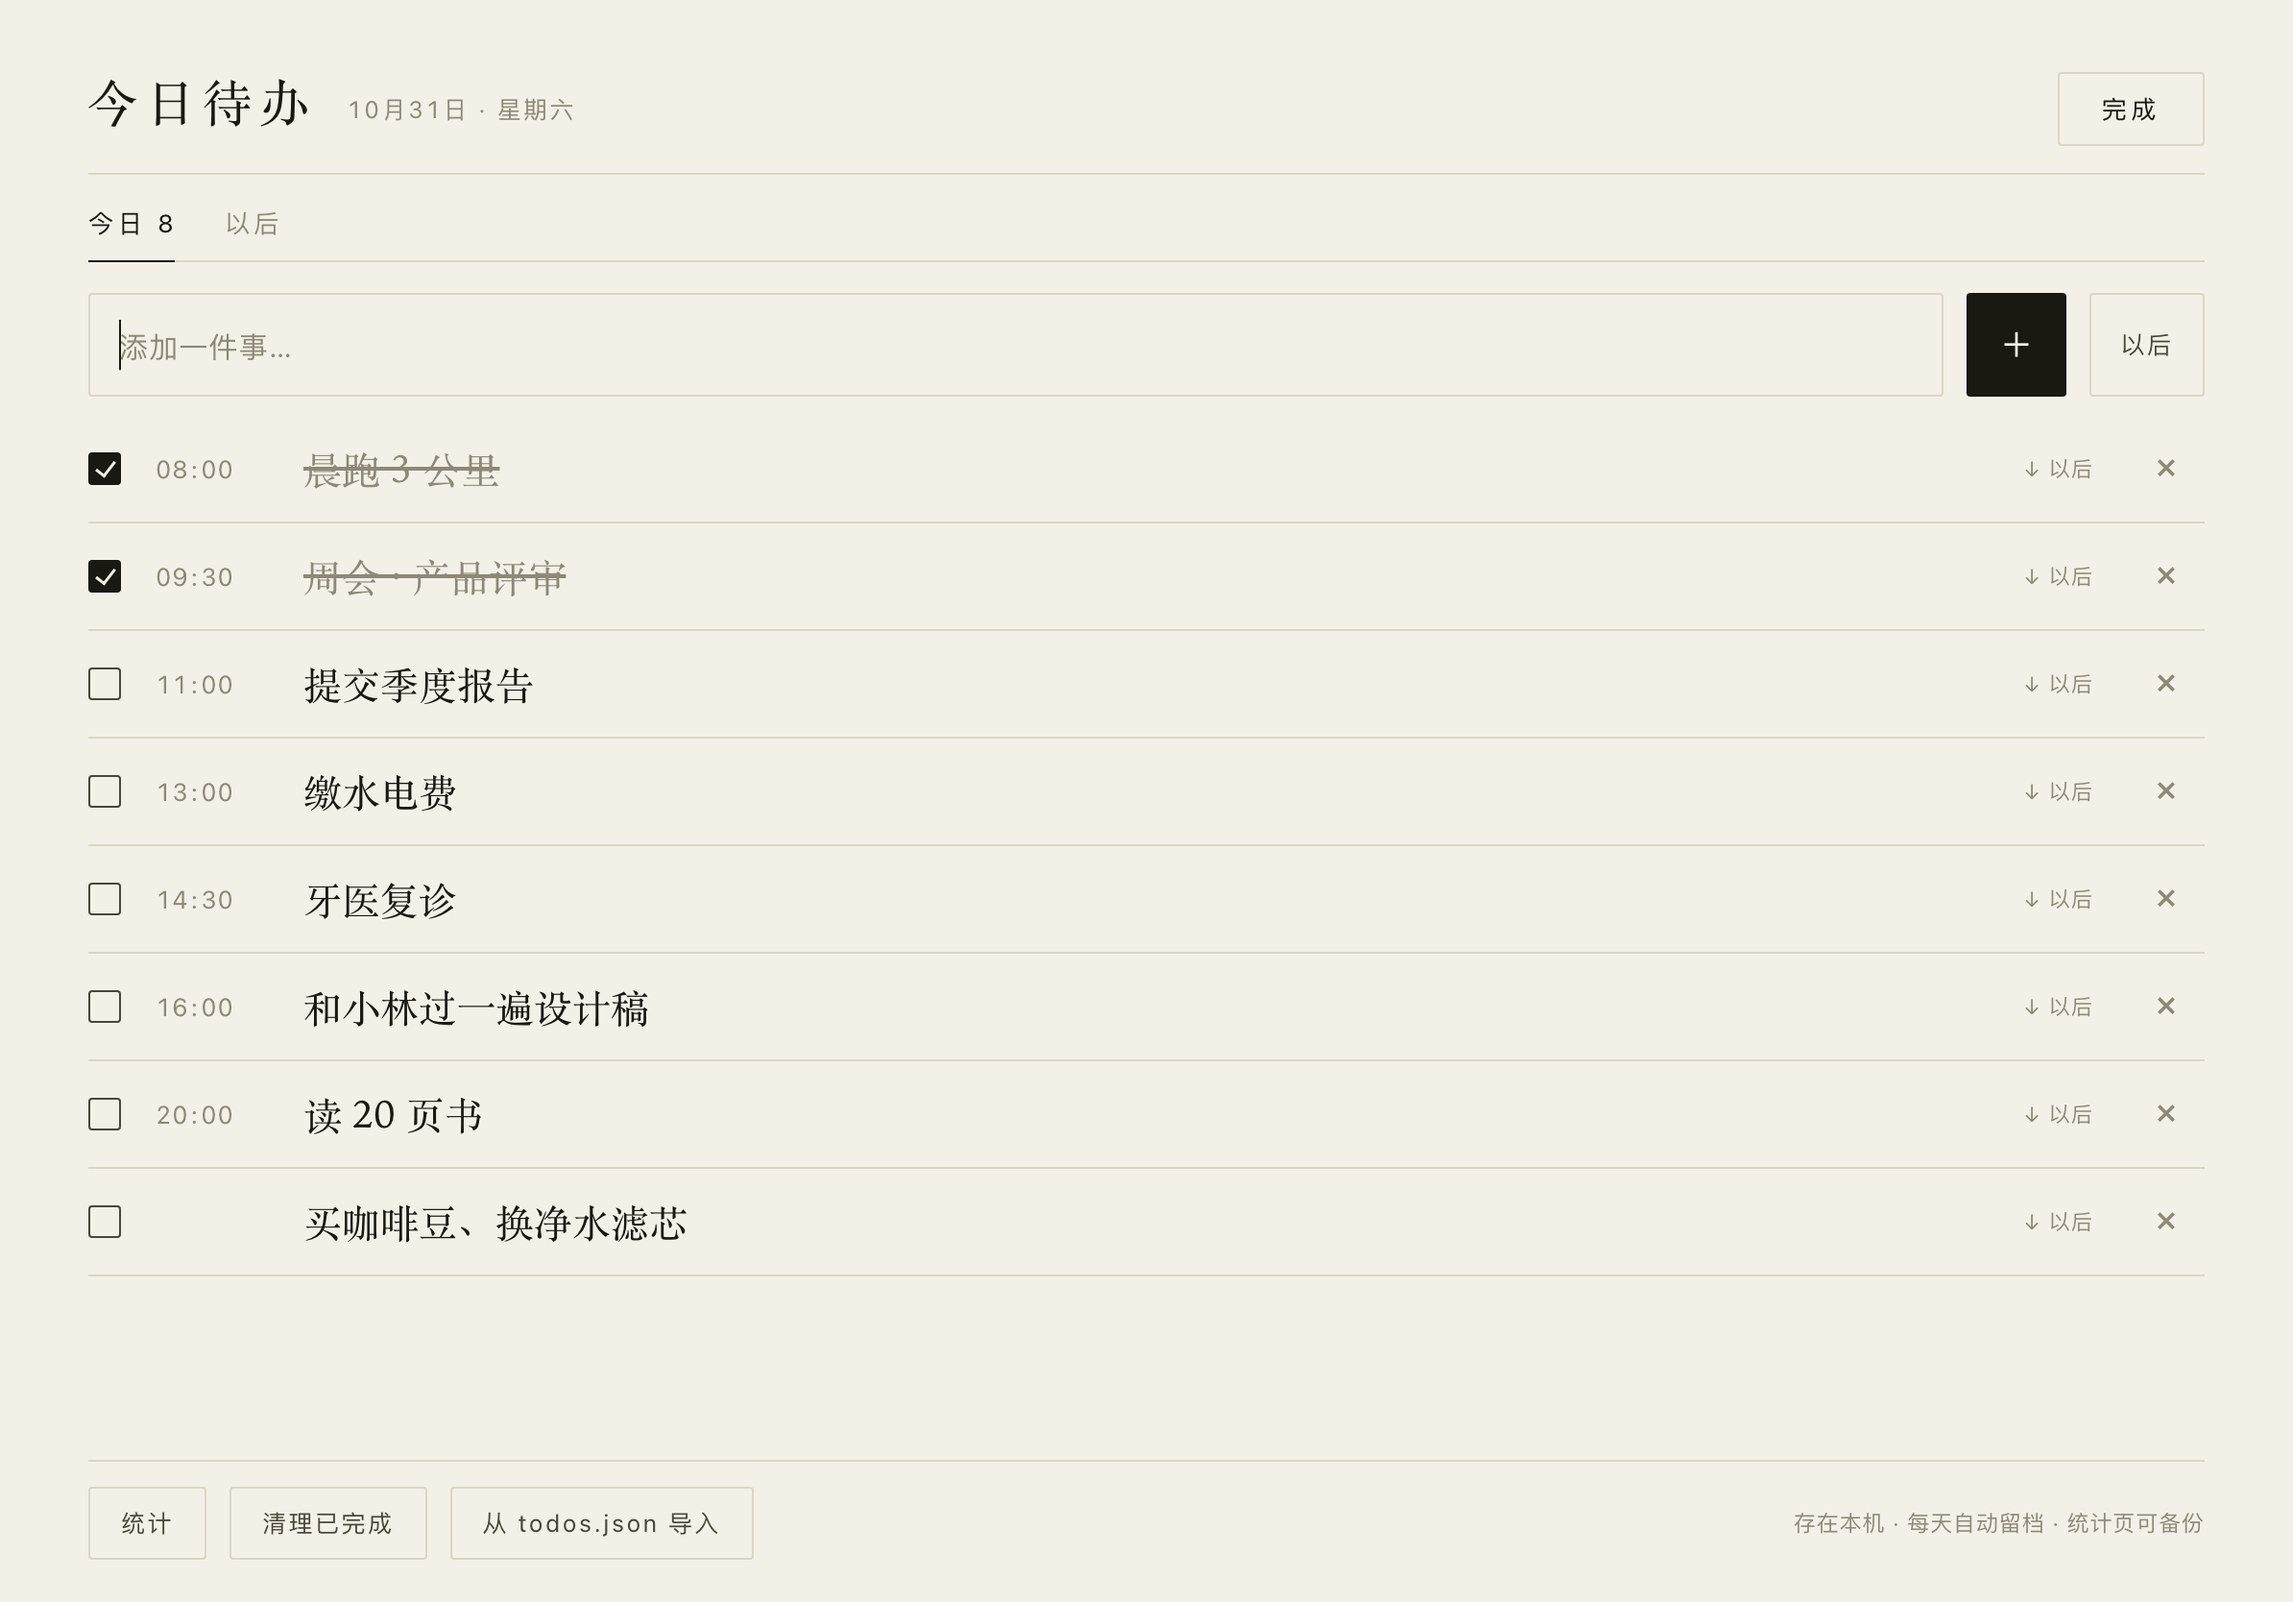
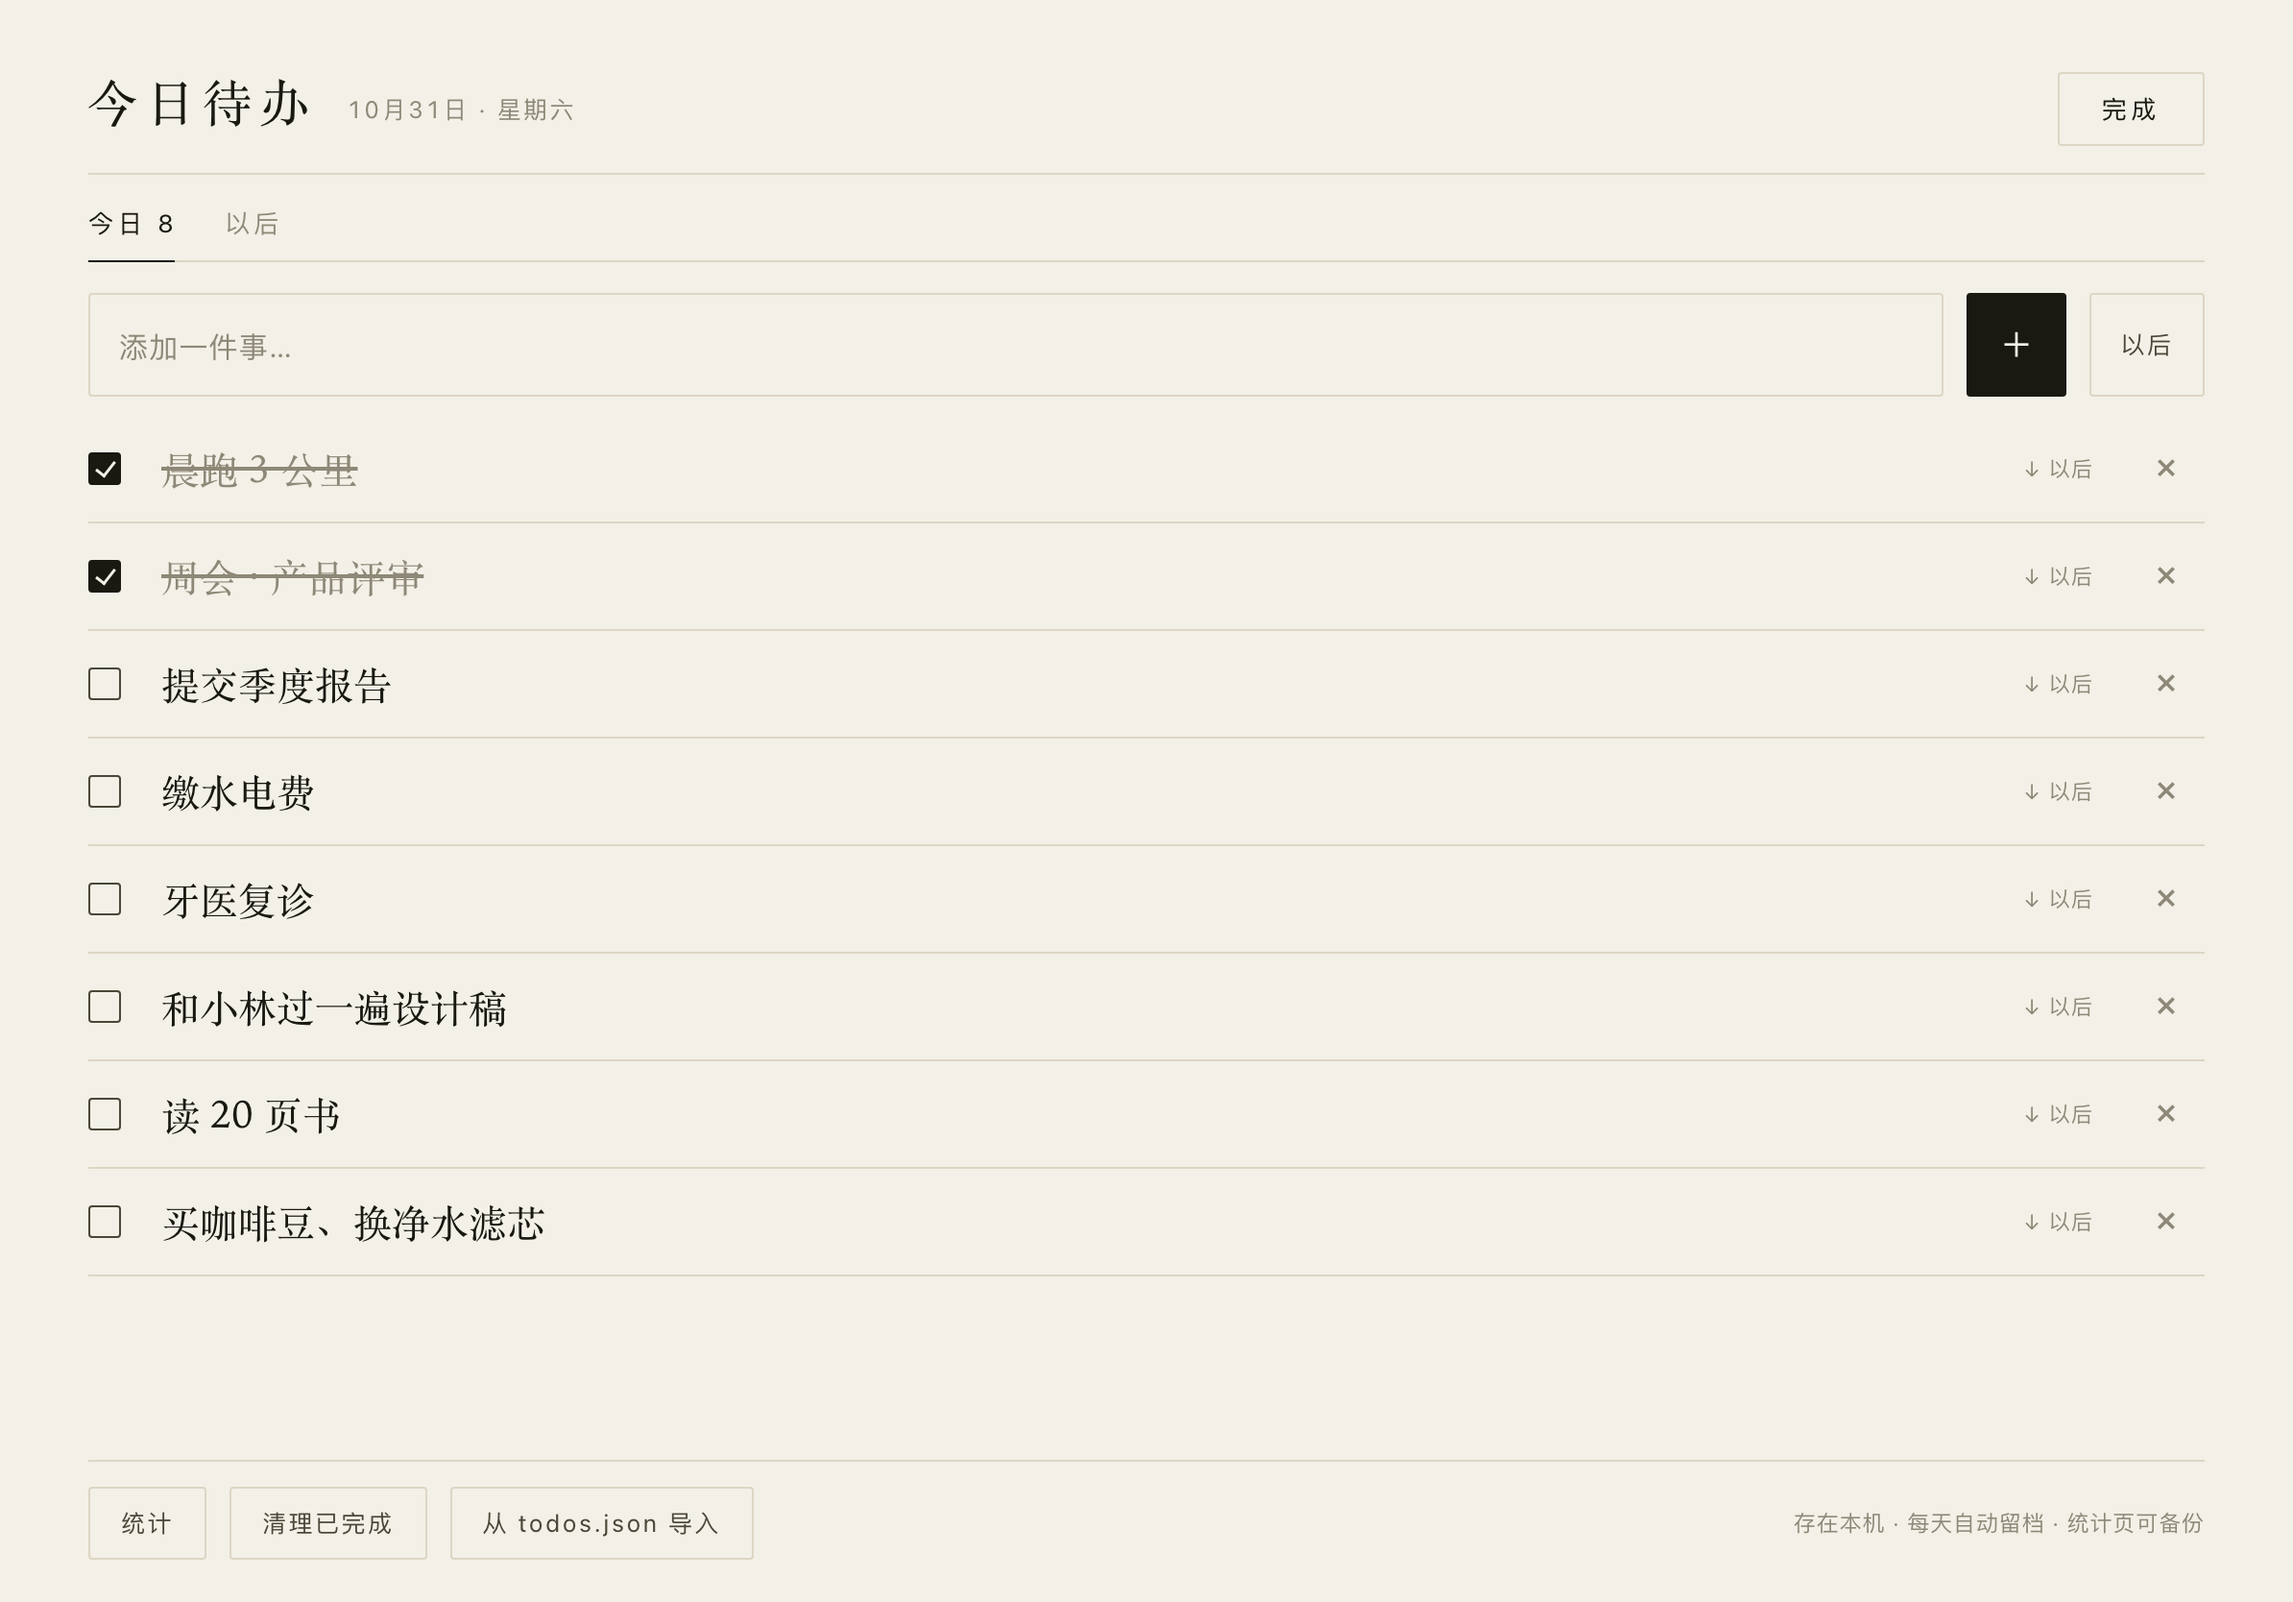
待办面板彻底去掉时间列（v24）

diff --git a/index.html b/index.html
@@ -258,7 +258,7 @@
 
   #sheetList{margin-top:10px;flex:1 1 auto;min-height:0;overflow:auto;-webkit-overflow-scrolling:touch}
   .srow{
-    display:grid;grid-template-columns:26px 66px minmax(0,1fr) 56px 40px;
+    display:grid;grid-template-columns:26px minmax(0,1fr) 56px 40px;
     align-items:center;gap:8px;
     border-bottom:1px solid var(--rule);
   }
@@ -288,15 +288,6 @@
     -webkit-user-select:text;user-select:text;
   }
   .srow.done input.t{color:var(--muted);text-decoration:line-through}
-  .srow input.tm::-webkit-calendar-picker-indicator{opacity:0;position:absolute;inset:0;width:100%;cursor:pointer}
-  .srow input.tm{
-    position:relative;
-    background:transparent;border:none;outline:none;
-    font-family:var(--sans);font-size:13px;color:var(--muted);
-    text-align:left;padding:14px 0;width:100%;
-    letter-spacing:.04em;font-variant-numeric:tabular-nums;
-    -webkit-appearance:none;appearance:none;
-  }
   .srow .del{
     background:transparent;border:none;color:var(--muted);
     font-size:21px;line-height:1;cursor:pointer;padding:8px 0;
@@ -732,7 +723,7 @@
     ]
   };
 
-  const BUILD = "v23";   // 改版时 +1，页脚可见，用来确认主屏 App 拿到的是哪一版
+  const BUILD = "v24";   // 改版时 +1，页脚可见，用来确认主屏 App 拿到的是哪一版
 
   const params = new URLSearchParams(location.search);
   const DEMO_MODE = params.has("demo");
@@ -1480,9 +1471,6 @@
     box.innerHTML = list.map(t =>
       '<div class="srow' + (t.done ? " done" : "") + '" data-id="' + t.id + '">' +
         '<button class="cb" data-act="toggle" aria-label="标记完成"></button>' +
-        (t.time
-          ? '<input class="tm" type="time" data-act="time" value="' + esc(t.time) + '" aria-label="时间">'
-          : '<span class="tm"></span>') +
         '<input class="t" data-act="text" value="' + esc(t.text) +
           '" enterkeyhint="done" autocapitalize="off" autocorrect="off" spellcheck="false" aria-label="内容">' +
         '<button class="mv" data-act="toPool" aria-label="移到以后">↓ 以后</button>' +
@@ -1545,7 +1533,7 @@
   $("#sheetList").addEventListener("change", e => {
     const el = e.target;
     const act = el.dataset && el.dataset.act;
-    if (act !== "text" && act !== "time") return;
+    if (act !== "text") return;
     const row = el.closest(".srow");
     if (!row) return;
 
@@ -1563,17 +1551,12 @@
 
     const item = state.todos.find(x => x.id === row.dataset.id);
     if (!item) return;
-    if (act === "text") {
-      const v = el.value.trim();
-      if (!v) { deleteTodo(item.id); return; }
-      item.text = v;
-    } else {
-      item.time = el.value || "";
-    }
+    const v = el.value.trim();
+    if (!v) { deleteTodo(item.id); return; }
+    item.text = v;
     saveTodos();
     renderTodos();
     renderStatus();
-    if (act === "time") renderSheet();
   });
 
   $("#sheetList").addEventListener("keydown", e => {

diff --git a/README.md b/README.md
@@ -119,9 +119,9 @@ location: { name: "上海 · 徐汇", lat: 31.1884, lon: 121.4336, tz: "Asia/Sha
 
 - **加**：上面输入内容，按键盘上的「完成」或右边的 ＋。加完输入框自动清空并保持聚焦，可以连着加几条。新增的待办不带时间。
 - **勾**：点方框。板上也能直接勾，不用进面板。
-- **改**：面板里直接点那行字就能改。已有时间的条目，点行首那个时间可以改；没有时间的条目就是一个空位，不显示占位符。
+- **改**：面板里直接点那行字就能改。**面板里不显示、也不编辑时间**。
 - **删**：点行尾的 ×。
-- **排序**：有时间的按时间先后排在前面，没时间的排后面。板上分两列显示，**左右交替**（1、2 / 3、4 / 5、6……），一页 12 条。**超过 12 条分页**：右上角显示「1 / 2」，点一下翻到下一页（循环）。只有一页时这个标记不显示。
+- **排序**：有时间的（从 `todos.json` 导入的旧数据）按时间排在前面，没时间的保持添加顺序。板上分两列显示，**左右交替**（1、2 / 3、4 / 5、6……），一页 12 条。**超过 12 条分页**：右上角显示「1 / 2」，点一下翻到下一页（循环）。只有一页时这个标记不显示。
 
 **「以后」清单（待办池）**
 
